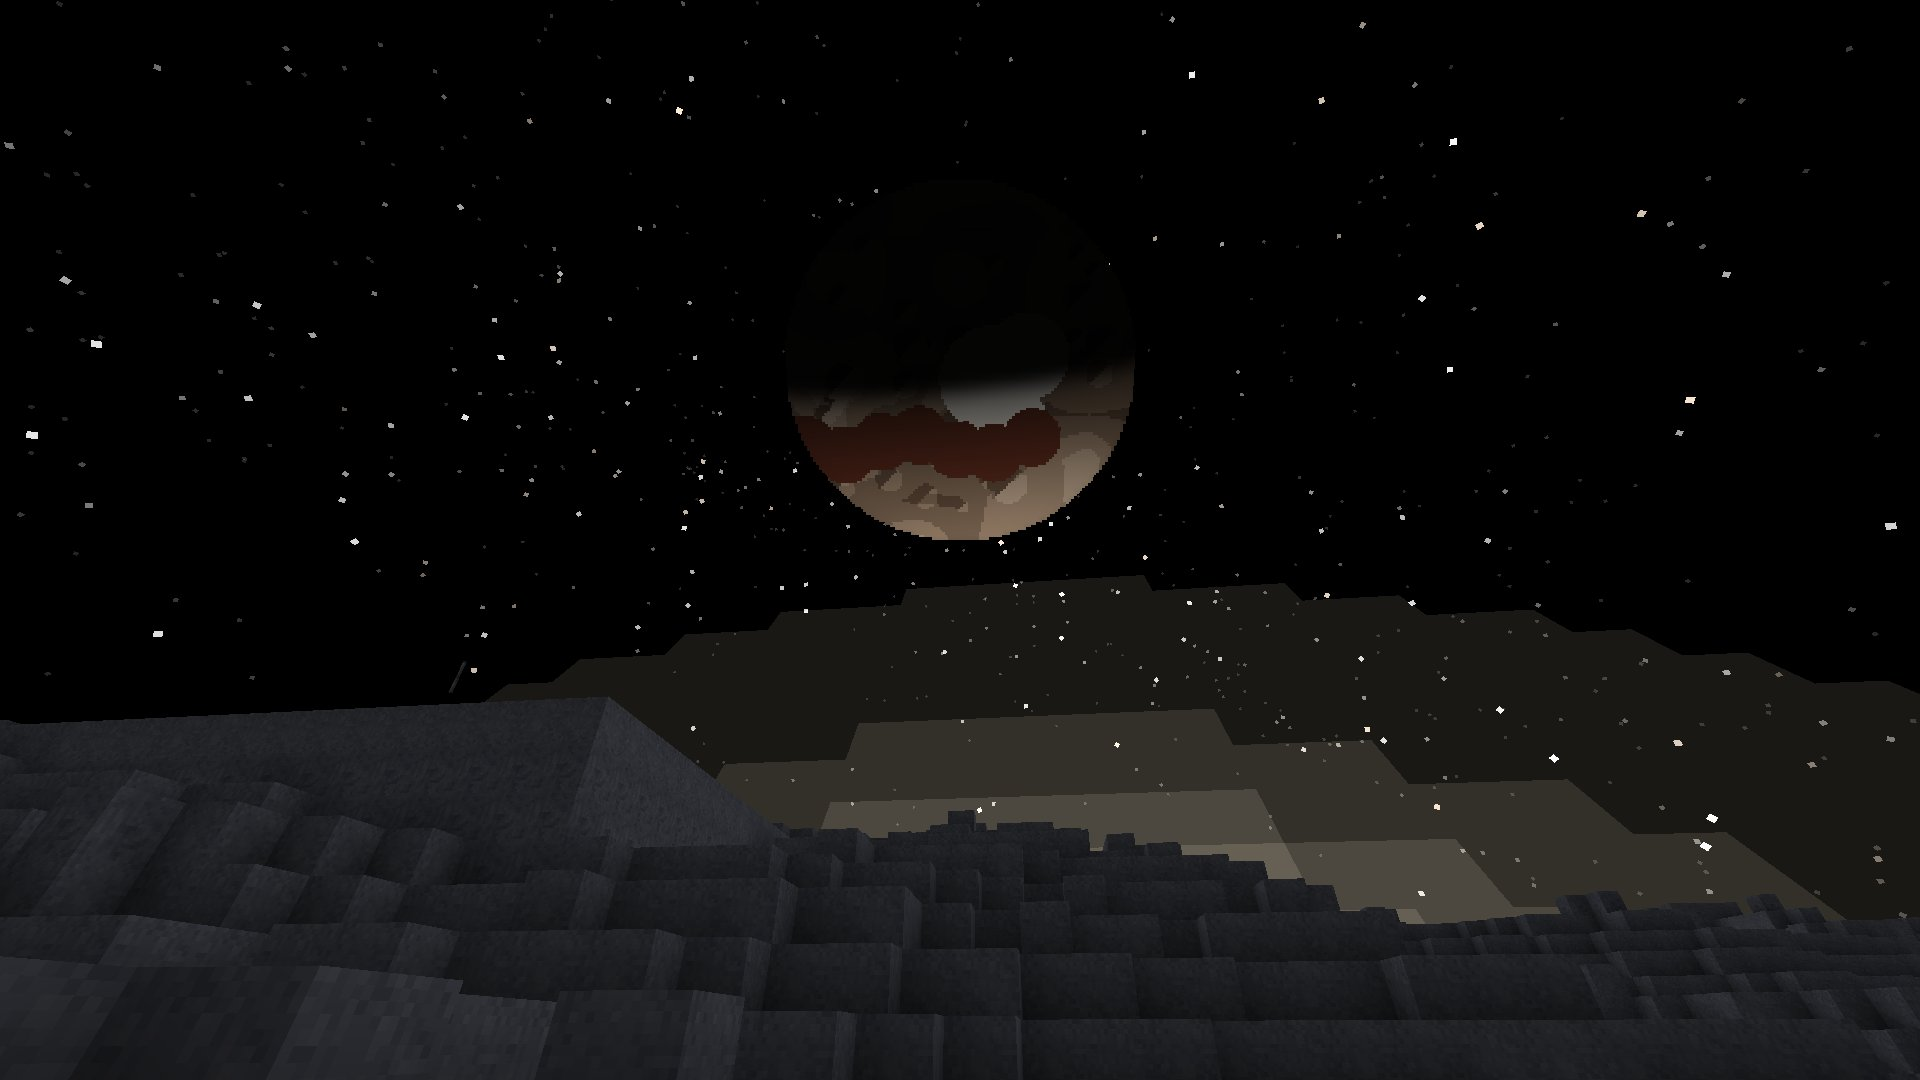
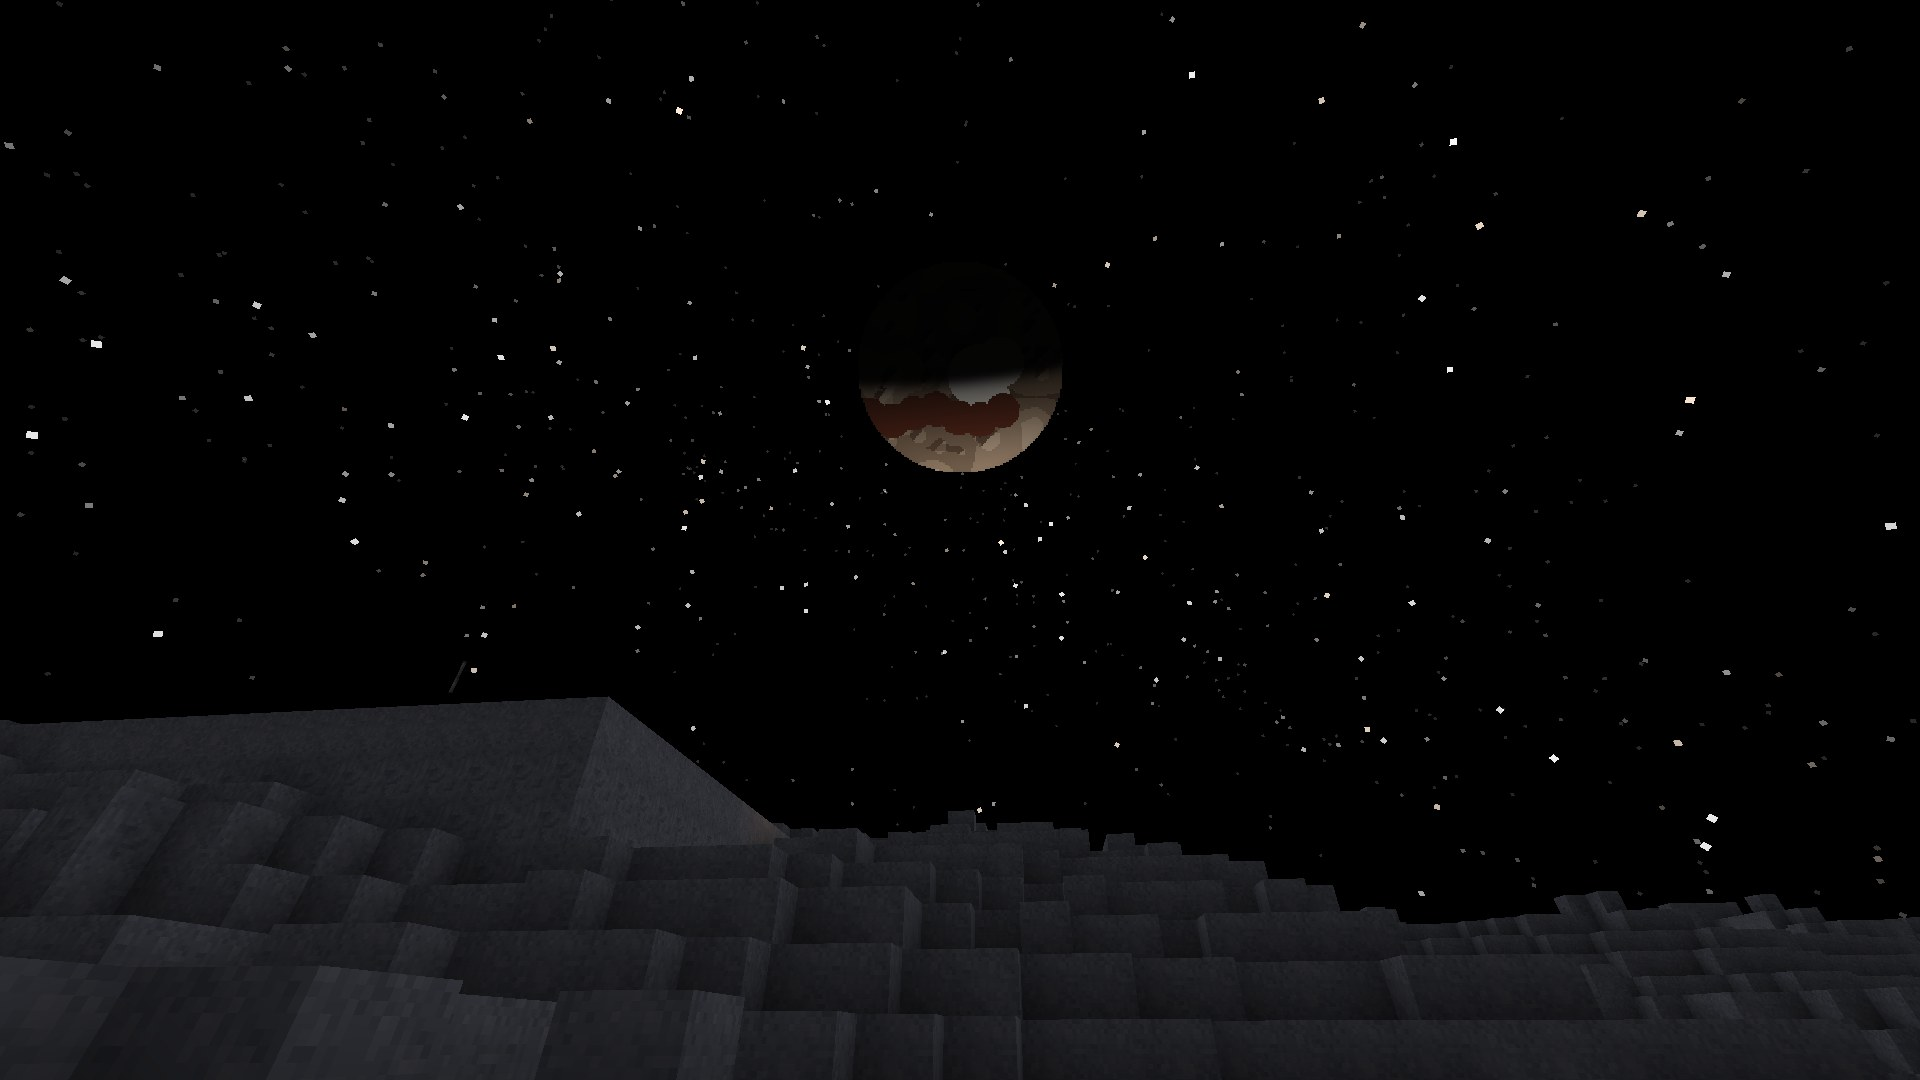
Showcase lander camera above lumpy ground; Nix and Hydra sky without the oversized Sun

Changed region(s): [[0.25, 0.3361, 1.0, 0.8556]]

diff --git a/src/main/java/com/pizzaparker07/spacebreaker/client/pluto/PlutoClient.java b/src/main/java/com/pizzaparker07/spacebreaker/client/pluto/PlutoClient.java
@@ -30,10 +30,10 @@ public final class PlutoClient {
         event.register(Spacebreaker.id("pluto"), new PlutoSkyEffects(Bodies.key("pluto"), GiantPlanetSkyEffects.Parent.plain(CHARON_DISC),
                 Bodies.key("charon")));
         event.register(Spacebreaker.id("charon"), new GiantPlanetSkyEffects(Bodies.key("charon"), GiantPlanetSkyEffects.Parent.plain(PLUTO_DISC)));
-        // from the little outer moons Pluto is a small disc, with Charon beside it
+        // from the little outer moons Pluto is a small disc (the companion form is only for Pluto itself: it sizes the
+        // Sun from the body's own orbit, which for a moon of Pluto is its orbit round Pluto, not the Sun)
         for (String moonlet : new String[]{"nix", "hydra"}) {
-            event.register(Spacebreaker.id(moonlet), new GiantPlanetSkyEffects(Bodies.key(moonlet), GiantPlanetSkyEffects.Parent.plain(PLUTO_DISC),
-                    Bodies.key("charon")));
+            event.register(Spacebreaker.id(moonlet), new GiantPlanetSkyEffects(Bodies.key(moonlet), GiantPlanetSkyEffects.Parent.plain(PLUTO_DISC)));
         }
     }
 

diff --git a/src/testmod/java/com/pizzaparker07/spacebreaker/testmod/showcase/OuterShowcase.java b/src/testmod/java/com/pizzaparker07/spacebreaker/testmod/showcase/OuterShowcase.java
@@ -129,6 +129,11 @@ abstract class OuterShowcase implements ShowcaseScenario {
         var piece = new com.pizzaparker07.spacebreaker.content.belt.dungeon.LanderPiece(91L, variant, x, y, z, Direction.NORTH);
         MarsScenario.placePiece(level, piece);
         BlockPos eye = piece.world(6, 9, -8);
+        // on lumpy little worlds the ground behind the trench can rise above the camera: keep the eye clear of it
+        double clear = ground(level, eye.getX() + 0.5, eye.getZ() + 0.5) + 2.5;
+        if (eye.getY() < clear) {
+            eye = new BlockPos(eye.getX(), (int) Math.ceil(clear), eye.getZ());
+        }
         BlockPos target = piece.world(6, 5, 14);
         shot(name, eye.getX() + 0.5, eye.getY(), eye.getZ() + 0.5, MoonScenario.yaw(target.getX() - eye.getX(), target.getZ() - eye.getZ()),
                 MoonScenario.pitch(target.getX() - eye.getX(), target.getY() - eye.getY(), target.getZ() - eye.getZ()), 160, at(dayFraction), null);
